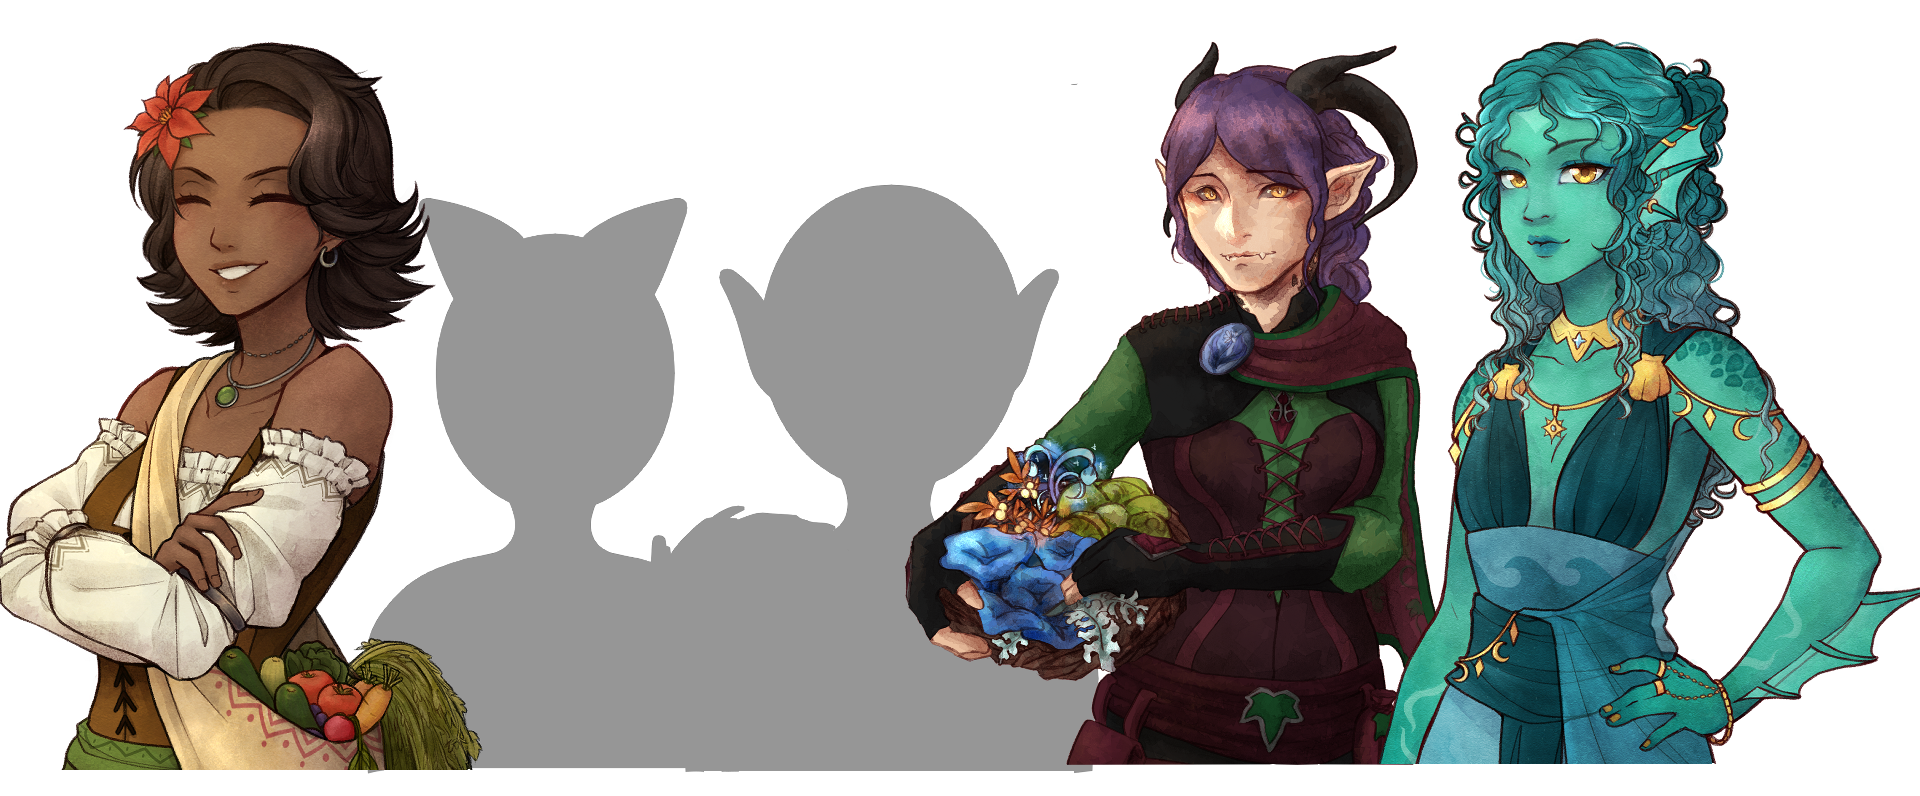
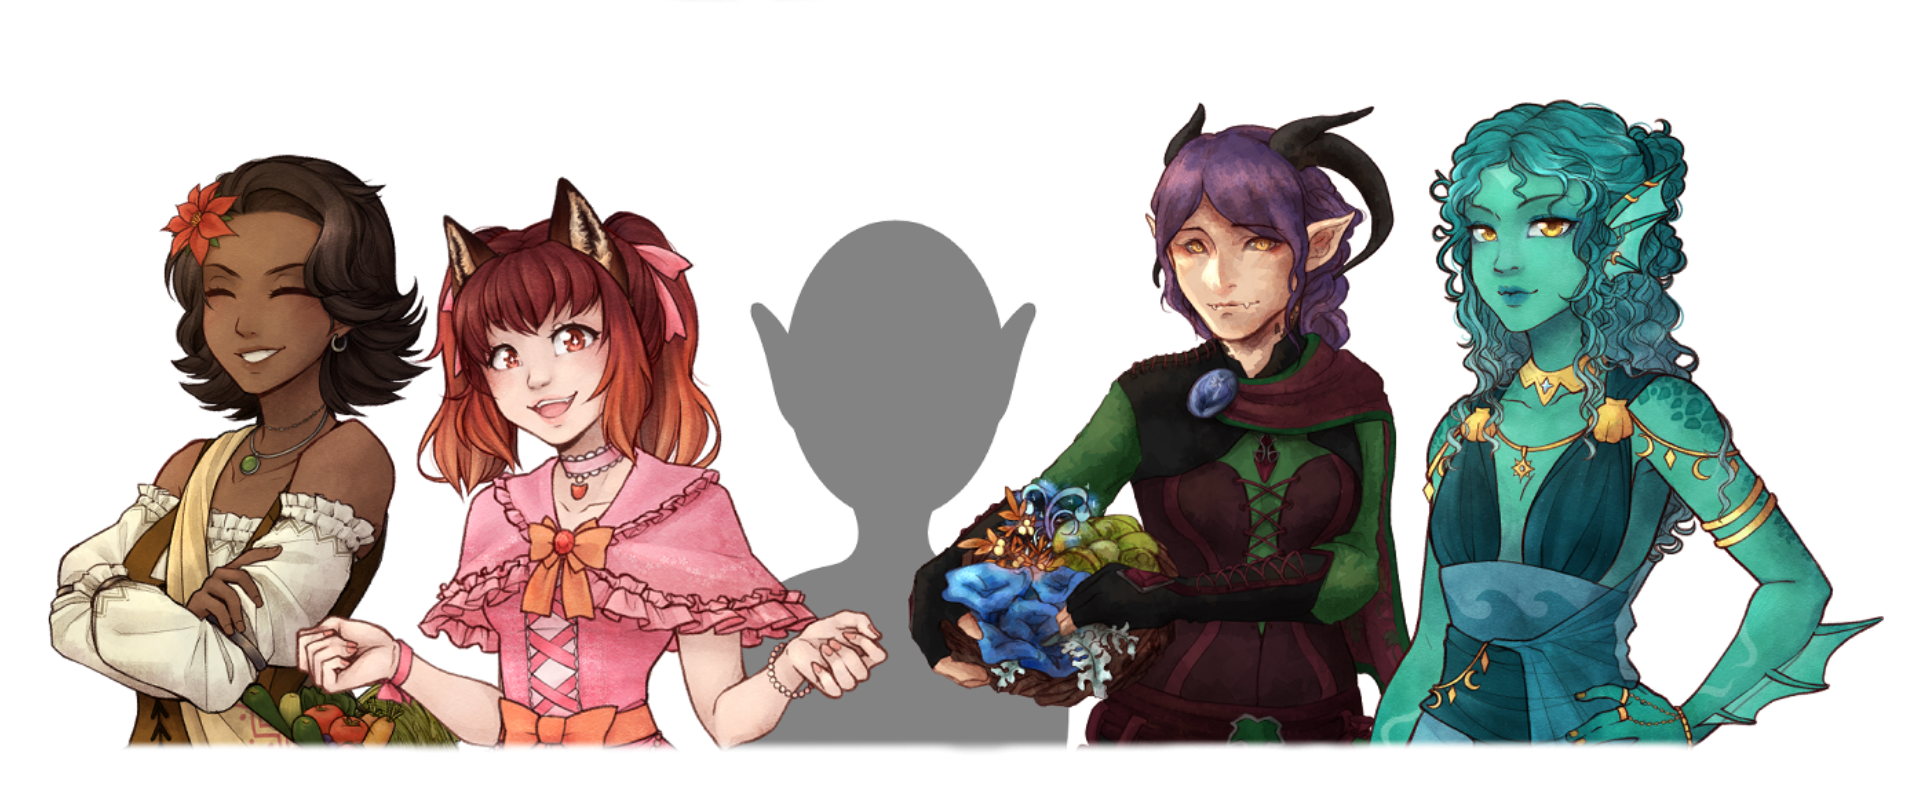
news

diff --git a/ger_blog_23.html b/ger_blog_23.html
@@ -29,6 +29,61 @@
     </div>
     
     <div class="DecoLine"></div>
+
+       <!-- July -->
+       <div class="MiddleContainerWithBG">
+        <div class="Border">
+        <div class="TextAlignLeft">
+        <h2>10. Juli 2023 - Back to business!</h2>
+      
+        <p>
+         Hallo zusammen!
+         <br>
+         <br> endlich wieder Neuigkeiten! 
+         <br> Vorher eine Frage: <b>bevorzugt ihr detailliertere Updates oder nur eine Zusammenfassung wie hier? </b>
+         <br> Antworte us in  <a href="https://discord.gg/8tXMkrMDyy" target="_blank"><u> <b>Discord</b></u> </a>! 
+         <br>
+         <br>  So... Wie zuvor bekannt gegeben, war der Juni aufgrund von Terminen, Urlaub und Hochzeit etwas lockerer bezüglich der Entwicklung von Magical Harvest. 
+         <br>  Die Arbeit blieb dennoch nicht vollständig liegen:
+         <br>
+         <br>  <b>Paint-modus für das Dekorations-system: </b>
+         <br>  Es ist nun möglich, manche Objekte einzufärben. Bei manchen sind bis zu zwei verschiedenen Farben gleichzeitig möglich (die Limitation musste sein, um eine gute Performance gewährleisten zu können). 
+         <br>  Eigentlich wollte ich nur, dass man Kisten einfärben kann, um sie besser unterscheiden zu können… es endete mit einem kompletten eigenständigen Feature…  
+         <br> <iframe width="560" height="315" src="https://www.youtube.com/embed/JRubK-fd_kg" title="YouTube video player" frameborder="0" allow="accelerometer; autoplay; clipboard-write; encrypted-media; gyroscope; picture-in-picture; web-share" allowfullscreen></iframe>
+      
+         <br>
+         <br>  <b>Kisten und Kistensymbole </b>
+         <br>Es gibt Kisten von 3 versch. Größen im Spiel. Die letzte Kistengröße wird mehrere Design-varianten umfassen. Den Kisten können Symbole zugewiesen werden. 
+         <br><a href="images/blog/2023/2023-07-10_Chests.png" target="_blank">
+          <img src="images/blog/2023/2023-07-10_Chests.png"  height="300px" alt="Deco"></img></a>
+         <br>
+         <br>
+         <br> <b>Bachelorette Ky’rah </b>
+         <br> Ky’rah ist unsere Ki’shen-Bachelorette. Die Illustration wurde nun von Lura fertiggestellt 
+         <br> <a href="https://magicalharvest.github.io/cast_bachelorettes.html" target="_blank">  Bachelorettes</a>
+         <br><a href="images/blog/2023/Kyrah.png" target="_blank">
+          <img src="images/blog/2023/Kyrah.png"  height="400px" alt="Deco"></img></a> <br>
+         <br>  <b> Weitere Assets</b>
+         <br> z.B. für das Dekorations-system (inkl. Icons)
+         <br><a href="images/blog/2023/Screenshot 2023-06-25_Deco.png" target="_blank">
+          <img src="images/blog/2023/Screenshot 2023-06-25_Deco.png"  height="300px" alt="Deco"></img></a>
+         <br>
+         <br>
+         <br>  <b>Ausblick</b>
+         <br>  - Assets: das Environment wird wieder im Fokus sein. Die „Badlands“ und weitere Wald-Assets. 
+         <br> - Webseite: diese muss mal wieder aktualisiert werden, genauso wie das Presskit 
+         <br>
+         <br>  Die nächsten News kommen wieder am 1. August und ab da wieder regelmäßig 2 mal pro Monat. 
+
+         <br>
+         <br> Liebe Grüße,
+         <br> Isa 
+
+        </p>
+      </div></div></div>
+
+    <div class="DecoLine"></div>
+
     
       <!-- June -->
       <div class="MiddleContainerWithBG">

diff --git a/blog_23.html b/blog_23.html
@@ -30,6 +30,59 @@
        <a href="blog_22.html">2022</a> ---
     </div>
 
+        <div class="DecoLine"></div>
+    <div class="MiddleContainerWithBG">
+      <div class="Border">
+      <div class="TextAlignLeft">
+      <h2>July 10, 2023 - Back to business!</h2>
+
+        <p>
+          Hey everybody! 
+          <br>
+      <br>       finally, some news again! 
+
+      <br> First: <b> do you prefer more detailed news or just a summary like this one?</b>
+      <br> Answer us in  <a href="https://discord.gg/8tXMkrMDyy" target="_blank"><u> <b>Discord</b></u> </a>! 
+      <br>     
+   <br> Now... as previously announced, June was a bit more relaxed regarding the development of Magical Harvest due to appointments, vacations and our wedding. 
+   <br> Nevertheless, the work didn't stop completely:
+   <br> 
+   <br> <b>Paint feature for the decoration system</b>
+   <br> It is now possible to color some objects. For some of them up to two different colors are possible at the same time (the limitation had to be there to guarantee a good performance). 
+   <br> Actually, I only wanted that you can color crates to be able to distinguish them better... it ended up with a complete standalone feature...  
+   <br> <iframe width="560" height="315" src="https://www.youtube.com/embed/JRubK-fd_kg" title="YouTube video player" frameborder="0" allow="accelerometer; autoplay; clipboard-write; encrypted-media; gyroscope; picture-in-picture; web-share" allowfullscreen></iframe>
+      
+   <br>
+   <br> <b>Storage boxes and symbols</b>
+   <br> There are crates of 3 different sizes in the game. The last storage box size will include several design variants. Symbols can be assigned to the boxes. 
+   <br><a href="images/blog/2023/2023-07-10_Chests.png" target="_blank">
+    <img src="images/blog/2023/2023-07-10_Chests.png"  height="300px" alt="Deco"></img></a>
+   <br>
+   <br> <b>Bachelorette Ky'rah </b>
+   <br> Ky'rah is our Ki'shen bachelorette. The illustration has now been completed by Lura 
+   <br> <a href="https://magicalharvest.github.io/cast_bachelorettes.html" target="_blank">  Bachelorettes</a> 
+   <br><a href="images/blog/2023/Kyrah.png" target="_blank">
+    <img src="images/blog/2023/Kyrah.png"  height="400px" alt="Deco"></img></a>
+   <br>
+   <br>
+   <br> <b> More assets</b>
+   <br>e.g. for the decoration system (incl. icons)
+   <br><a href="images/blog/2023/Screenshot 2023-06-25_Deco.png" target="_blank">
+    <img src="images/blog/2023/Screenshot 2023-06-25_Deco.png"  height="300px" alt="Deco"></img></a>
+    <br>
+   <br>  <b>Outlook</b>
+   <br>- Assets: the Environment will be in focus again. The "Badlands" and more forest assets. 
+   <br>- Website: this needs to be updated again, as well as the presskit. 
+   <br>
+   <br>The next news will be on August 1st and from then on again 2 times a month. 
+
+         <br>
+         <br> Best regards, 
+         <br> Isa
+  
+       </p>
+   </div></div></div>
+
     <div class="DecoLine"></div>
     <div class="MiddleContainerWithBG">
       <div class="Border">

diff --git a/features.html b/features.html
@@ -109,8 +109,8 @@
                       </p>
                 </div>  </div>  </div>
                  <div class="FeatureImage">
-                     <a href="images/featureImages/hyldena_map.png" target="_blank">
-                       <img src="images/featureImages/hyldena_map.png" alt="Hyldena map"></div></a>
+                     <a href="images/blog/2023/2023_06_1_Map.png" target="_blank">
+                       <img src="images/blog/2023/2023_06_1_Map.png" alt="Hyldena map"></div></a>
             </div>
 
           </div>
@@ -126,16 +126,20 @@
                      <div class="TextContainer">
                    <h1>Customize your character!</h1>
                    <p>
-                  Play as one of the 5 species and customize your character according to their style.
-                  Discover more styles as you play.  <br>
-                  Nothing is impossible with magic!
+                    Play as one of the 5 species and customize your character according to their style.
+                    <br>   A Drakys with or without horns? No problem.
+                    <br>   A Ki'shen with rabbit ears?
+                    <br>   Or a simple human?
+                    <br>  Gender doesn't matter, so clothes can be worn at will regardless of body shape type.
                   </p>
                  </div>   </div>   </div>
 
-                 <div class="FeatureImageRect">
-                       <a href="images\otherImages\2022-09-02 CharacterSelection.png" target="_blank">
-                   <img src="images\otherImages\2022-09-02 CharacterSelection.png" alt="Characters"></img></a></div>
-             </div>
+                 <div class="FeatureImage">
+                  <br> <iframe width="560" height="315" src="https://www.youtube.com/embed/TI_nFJprMxM" title="YouTube video player" frameborder="0" allow="accelerometer; autoplay; clipboard-write; encrypted-media; gyroscope; picture-in-picture; web-share" allowfullscreen></iframe>
+                      <!-- <a href="images\otherImages\2022-09-02 CharacterSelection.png" target="_blank">
+                  <img src="images\otherImages\2022-09-02 CharacterSelection.png" alt="Characters"></img></a></div> -->
+            </div>
+          </div>
 
            </div>
 
@@ -161,9 +165,9 @@
                   </p>
                   </div>  </div>  </div>
                   <div class="FeatureImageRect">
-                        <a href="images\blog\2022-08-31_craftingarea.PNG" target="_blank">
-                    <img src="images\blog\2022-08-31_craftingarea.PNG" alt="Crafting"></img></a></div>
-              </div>
+                    <a href="images\blog\2023\Screenshot 2023-06-25_Deco.PNG" target="_blank">
+                      <img src="images\blog\2023\Screenshot 2023-06-25_Deco.PNG" alt="Crafting"></img></a></div>
+                </div>
 
             </div>
 

diff --git a/ger_features.html b/ger_features.html
@@ -111,8 +111,8 @@
                </p>
          </div>  </div>  </div>
           <div class="FeatureImage">
-              <a href="images/featureImages/hyldena_map.png" target="_blank">
-                <img src="images/featureImages/hyldena_map.png" alt="Hyldena map"></div></a>
+            <a href="images/blog/2023/2023_06_1_Map.png" target="_blank">
+              <img src="images/blog/2023/2023_06_1_Map.png" alt="Hyldena map"></div></a>
      </div>
 
    </div>
@@ -128,18 +128,23 @@
               <div class="TextContainer">
             <h1>Gestalte deinen Charakter!</h1>
             <p>
-              Spiele als eine der 5 Rassen und gestalte deinen Charakter entsprechend
-              ihres Stils. Entdecke während des Spielens weitere Stile.<br>
-          Mit Magie ist nichts unmöglich!
+              Spiele als eine der 5 Spezies und gestalte deinen Charakter entsprechend
+              ihres Stils nach deinen Wünschen.   <br>
+              Ein Drakys mit oder ohne Hörner? Kein Problem.  <br>
+              Eine Ki'shen mit Hasenohren?   <br>
+              Oder ein einfacher Mensch?   <br>
+              Das Geschlecht spielt keine Rolle, weshalb Kleidung nach Belieben unabhängig des 
+              Körperformtyps getragen werden kann.
            </p>
           </div>   </div>   </div>
 
-          <div class="FeatureImageRect">
-                <a href="images\otherImages\2022-09-02 CharacterSelection.png" target="_blank">
-            <img src="images\otherImages\2022-09-02 CharacterSelection.png" alt="Characters"></img></a></div>
+          <div class="FeatureImage">
+            <br> <iframe width="560" height="315" src="https://www.youtube.com/embed/TI_nFJprMxM" title="YouTube video player" frameborder="0" allow="accelerometer; autoplay; clipboard-write; encrypted-media; gyroscope; picture-in-picture; web-share" allowfullscreen></iframe>
+                <!-- <a href="images\otherImages\2022-09-02 CharacterSelection.png" target="_blank">
+            <img src="images\otherImages\2022-09-02 CharacterSelection.png" alt="Characters"></img></a></div> -->
       </div>
 
-    </div>
+    </div> </div>
 
     <div class="DecoLine"></div>
 
@@ -164,8 +169,9 @@
 
            </div>  </div>  </div>
            <div class="FeatureImageRect">
-                 <a href="images\blog\2022-08-31_craftingarea.PNG" target="_blank">
-             <img src="images\blog\2022-08-31_craftingarea.PNG" alt="Crafting"></img></a></div>
+            
+                 <a href="images\blog\2023\Screenshot 2023-06-25_Deco.PNG" target="_blank">
+             <img src="images\blog\2023\Screenshot 2023-06-25_Deco.PNG" alt="Crafting"></img></a></div>
        </div>
 
      </div>

diff --git a/cast_bachelorettes.html b/cast_bachelorettes.html
@@ -78,8 +78,8 @@
       <div class="Border">
       <div class="TextAlignLeft">
     <p>
-      <a href="images/characters/Kyrah.png" target="_blank">
-        <img src="images/characters/Kyrah.png" alt="Kyrah"  height="500" class ="CastImagesRight"></img>
+      <a href="images/characters/Kyrah_2.png" target="_blank">
+        <img src="images/characters/Kyrah_2.png" alt="Kyrah"  height="500" class ="CastImagesRight"></img>
       </a> 
       <h3>Ky'rah </h3>
       <table>

diff --git a/ger_cast_bachelorettes.html b/ger_cast_bachelorettes.html
@@ -78,8 +78,8 @@
       <div class="Border">
       <div class="TextAlignLeft">
     <p>
-      <a href="images/characters/Kyrah.png" target="_blank">
-        <img src="images/characters/Kyrah.png" alt="Kyrah"  height="500" class ="CastImagesRight"></img>
+      <a href="images/characters/Kyrah_2.png" target="_blank">
+        <img src="images/characters/Kyrah_2.png" alt="Kyrah"  height="500" class ="CastImagesRight"></img>
       </a> 
       <h3>Ky'rah </h3>
       <table>
